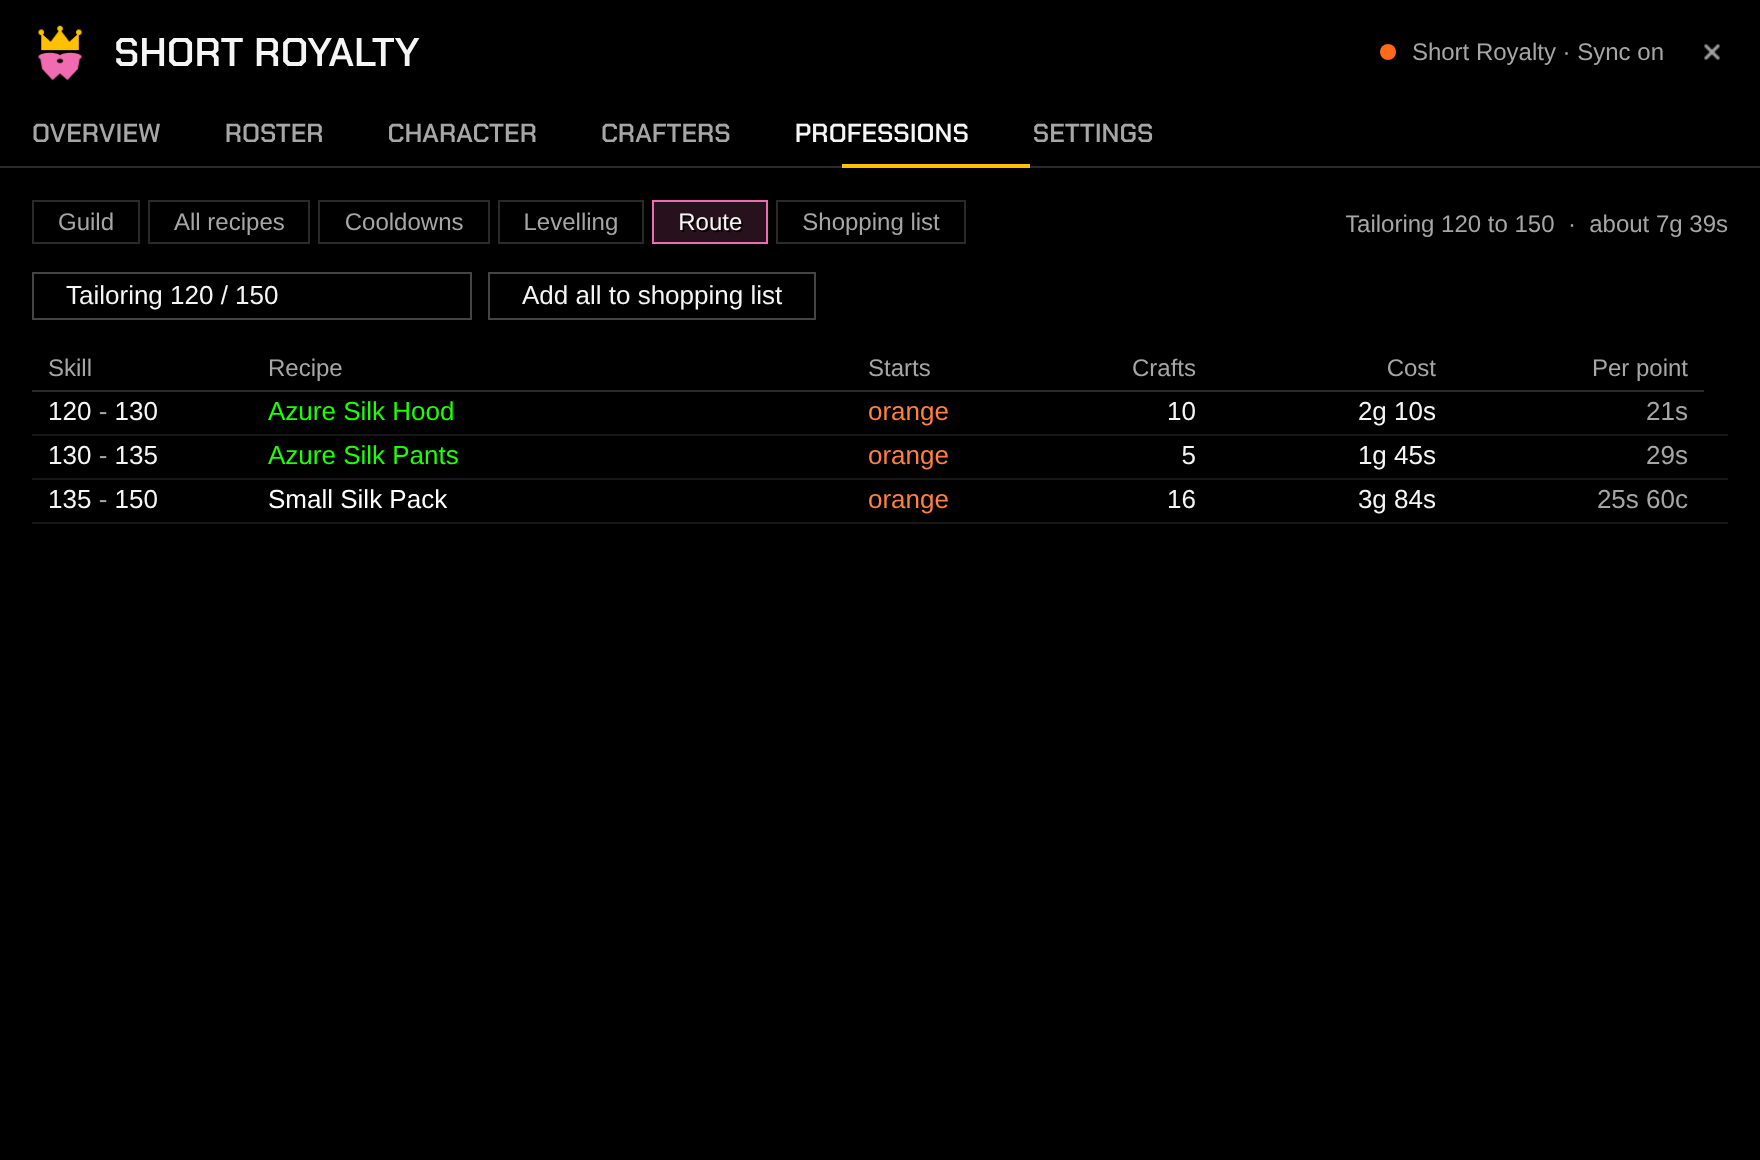
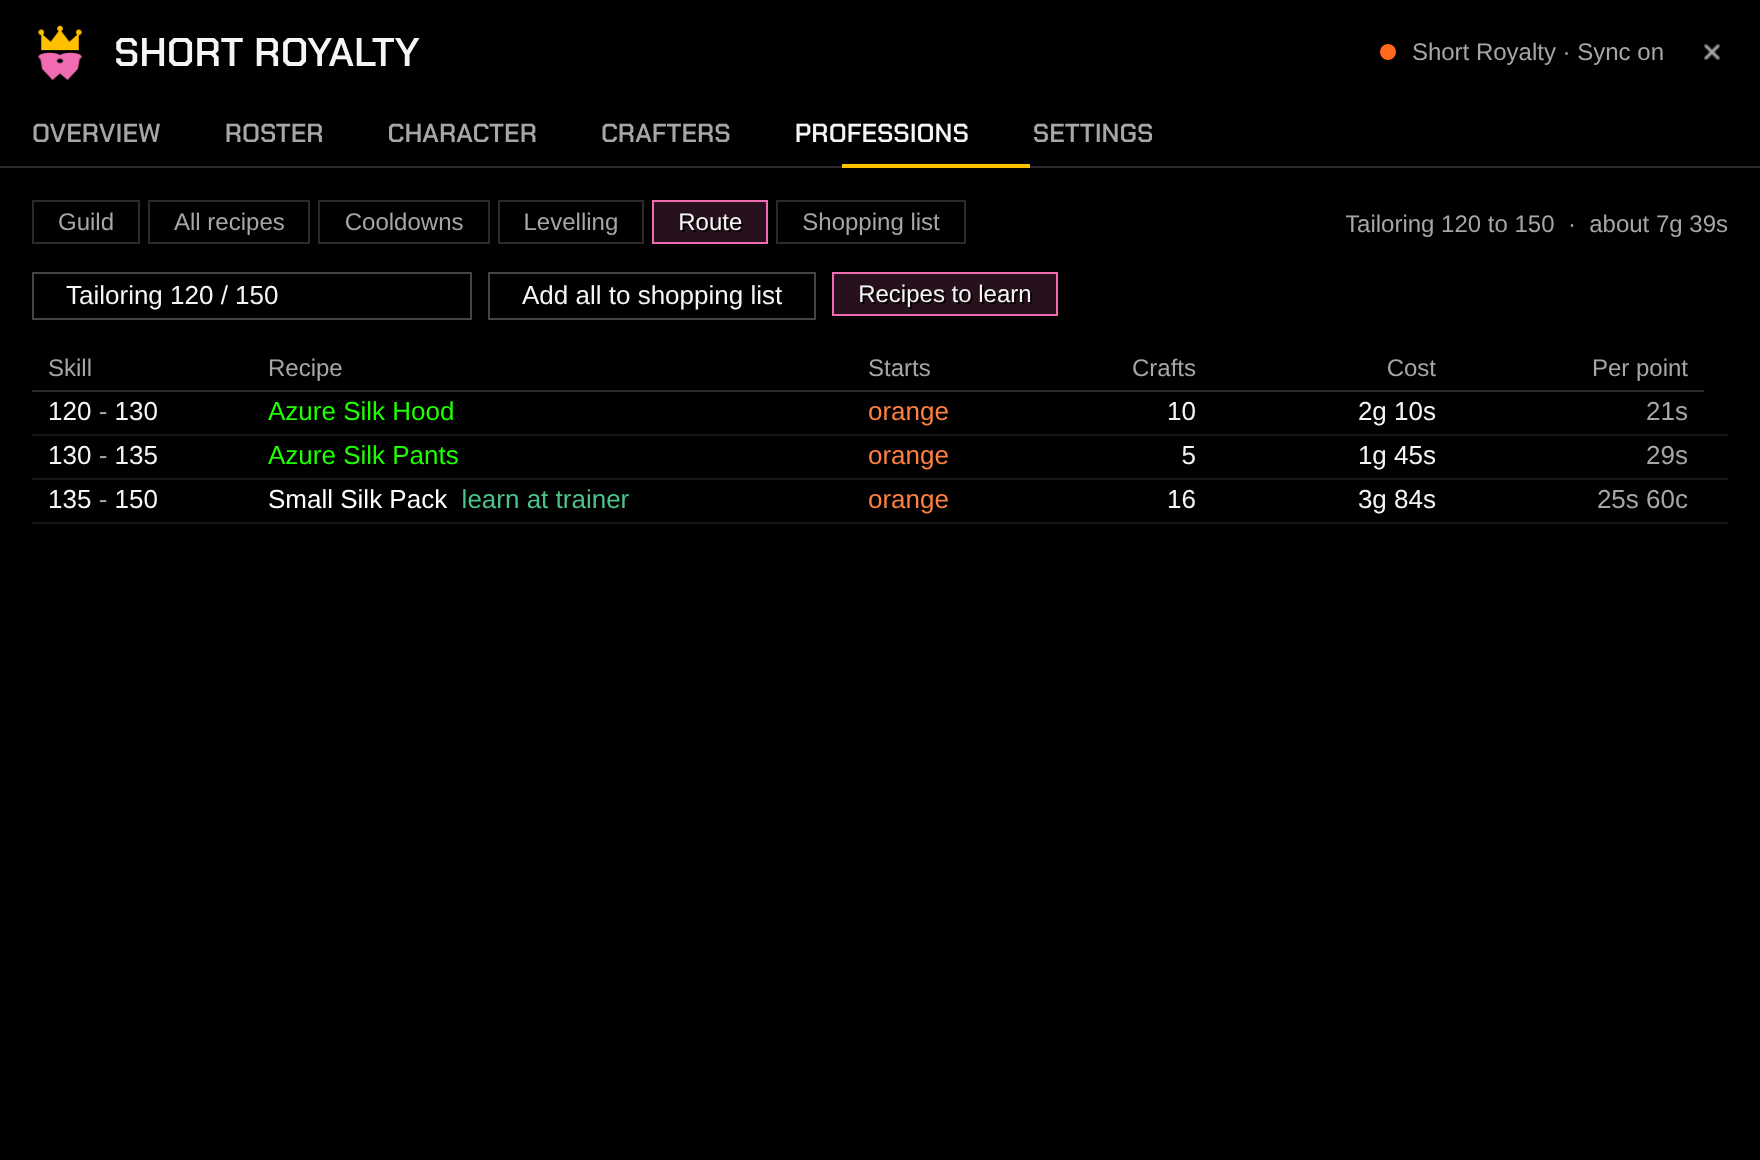
v0.5.2 (not released): route with recipes you haven't learned
Route can plan with recipe items that have a price and trainer recipes
you've seen, waiting for the skill they need, spreading their learning
cost over the points they can give, and counting it once in the total.
Prices.Batch prices each item once per refresh.

Claude-Session: https://claude.ai/code/session_01A7mubHiRvUd2jJ55Qc85DU

Changed region(s): [[0.4688, 0.2172, 0.625, 0.2793], [0.25, 0.4034, 0.3438, 0.4345]]

diff --git a/preview/index.html b/preview/index.html
@@ -600,13 +600,13 @@ function professions() {
     const SK_C = { orange: "var(--skillOrange)", yellow: "var(--skillYellow)" };
     // [from, to, recipe, quality, starts, crafts, cost, per point]
     const R = [[120, 130, "Azure Silk Hood", "#1eff00", "orange", 10, "2g 10s", "21s"], [130, 135, "Azure Silk Pants", "#1eff00", "orange", 5, "1g 45s", "29s"],
-      [135, 150, "Small Silk Pack", "#ffffff", "orange", 16, "3g 84s", "25s 60c"]];
-    const cell = (r, c) => c.key === "k" ? `${r[0]}<span class="dim"> - </span>${r[1]}` : c.key === "n" ? `<span style="color:${r[3]}">${esc(r[2])}</span>`
+      [135, 150, "Small Silk Pack", "#ffffff", "orange", 16, "3g 84s", "25s 60c", true]];
+    const cell = (r, c) => c.key === "k" ? `${r[0]}<span class="dim"> - </span>${r[1]}` : c.key === "n" ? `<span style="color:${r[3]}">${esc(r[2])}</span>${r[8] ? '<span class="good">&nbsp;&nbsp;learn at trainer</span>' : ""}`
       : c.key === "f" ? `<span style="color:${SK_C[r[4]]}">${r[4]}</span>` : c.key === "c" ? r[5] : c.key === "m" ? r[6] : `<span class="dim">${r[7]}</span>`;
     return `<div class="abs" style="left:0;top:0;display:flex;gap:4px">${chips(PROF_VIEWS, "route")}</div>
       <div class="abs dim ell" style="right:0;top:4px;font-size:12px">Tailoring 120 to 150 &nbsp;·&nbsp; about 7g 39s</div>
       ${btn("Tailoring  120 / 150", "", 'style="position:absolute;left:0;top:36px;width:220px;justify-content:space-between"')}
-      ${btn("Add all to shopping list", "", 'style="position:absolute;left:228px;top:36px"')}
+      <div class="abs" style="left:228px;top:36px;display:flex;gap:${T.space.s}px">${btn("Add all to shopping list")}${chips([["learn", "Recipes to learn"]], "learn")}</div>
       ${list([{ key: "k", t: "Skill", w: 110 }, { key: "n", t: "Recipe", w: 300 }, { key: "f", t: "Starts", w: 90 }, { key: "c", t: "Crafts", w: 90, r: 1 }, { key: "m", t: "Cost", w: 120, r: 1 }, { key: "p", t: "Per point", w: 126, r: 1 }],
         R, cell, { click: true, style: "left:0;top:72px;bottom:0;right:0" })}`;
   }

diff --git a/README.md b/README.md
@@ -143,7 +143,7 @@ Onyxia's Lair, Forever's first wave) to see who's attuned:
 
 <p align="center"><img src="docs/images/levelling.png" alt="Professions → Levelling" width="100%"></p>
 
-- **Route:** the cheapest way from your skill to your cap. Pick a profession and it lists which of your learned recipes to craft for each stretch of points, how many times, and what it costs: the recipe that costs least **per skill point** at each point, counting what you'd get for **selling what you make** (prices from TradeSkillMaster if you have it, and the vendor prices Short Royalty remembers). Orange recipes always give a point; yellow and green only sometimes, so their crafts are an average (the original game's chance; not confirmed for Forever). **Add all to shopping list** puts every craft on your shopping list. Only recipes you've learned are used: when nothing you know gives points any more, it tells you to visit your trainer.
+- **Route:** the cheapest way from your skill to your cap. Pick a profession and it lists which of your learned recipes to craft for each stretch of points, how many times, and what it costs: the recipe that costs least **per skill point** at each point, counting what you'd get for **selling what you make** (prices from TradeSkillMaster if you have it, and the vendor prices Short Royalty remembers). Orange recipes always give a point; yellow and green only sometimes, so their crafts are an average (the original game's chance; not confirmed for Forever). **Add all to shopping list** puts every craft on your shopping list. With **Recipes to learn** (on by default) it also plans with recipes you don't know yet: recipe items that have a price (TSM, or a vendor you've visited) and recipes a trainer you've opened teaches, adding what learning them costs. When nothing you know or can learn gives points any more, it tells you to visit your trainer.
 
 <p align="center"><img src="docs/images/route.png" alt="Professions → Route (example prices)" width="100%"></p>
 
@@ -377,7 +377,8 @@ The full design, data format and merge rules are in [PLAN.md](PLAN.md).
 - [x] **v0.4.8**: **cheapest levelling route** (step 4 of the levelling tools)
 - [ ] **v0.5.0** (built, not released): where to learn each recipe (recipe items, trainers, the game's own text)
 - [ ] **v0.5.1** (built, not released): shopping list upgrades (tooltips, make or buy, raw materials, Copy for TSM)
-- [ ] **v0.5.2–v0.5.5**: route with recipes you haven't learned, panel beside the profession window, filters, who has item X ([plan](PLAN.md))
+- [ ] **v0.5.2** (built, not released): Route plans with recipes you haven't learned yet
+- [ ] **v0.5.3–v0.5.5**: panel beside the profession window, filters, who has item X ([plan](PLAN.md))
 - [ ] Next levelling step: cheapest levelling route
 - [x] **v0.4.1**: Raids tab taken out again for now (it wasn't set up right yet); the focus stays on crafting and professions
 - [ ] **Raids** (later, re-planned): calendar raids, sign-ups, roles, reminders

diff --git a/CLAUDE.md b/CLAUDE.md
@@ -98,7 +98,15 @@ shared only over the guild **addon channel**: no website, no server, no uploads.
   them), `Shopping.ItemNeed` (cached, dirty on SHOPPING_CHANGED/BAG/BANK) →
   `Tooltip.ShoppingText` on item tooltips (shown even with crafter lines
   off), `Shopping.TSMList` ("i:1,i:2"; **TSM accepting it is unverified**,
-  TESTING 174). Tests: `tests/shopping2_spec.lua`. Next: v0.5.2.
+  TESTING 174). Tests: `tests/shopping2_spec.lua`.
+- **Built, not released: v0.5.2 route with recipes to learn.**
+  `Route.HowToLearn` (recipe item with a price via `Prices.Buy`, or a
+  remembered trainer; cheaper wins), `Route.Recipes(skillLine, known,
+  toLearn)`, `Route.Plan` honours `learnAt`, adds `learnCost /
+  (min(grey, to) - skill)` per point until paid, puts `learn` on the first
+  step and the cost once in the total. `settings.routeLearn` (default on),
+  chip "Recipes to learn". `Prices.Batch(fn, ...)` caches `Buy` per item
+  during a refresh (Route, Profit). TESTING 175–177. Next: v0.5.3.
 - **Earlier:** the levelling tools (PLAN.md section 13) are all
   built. **FojjiCore review (11 Nov): `docs/FOJJICORE-REVIEW.md`** (All
   Rights Reserved: features only, never code). Top pick: recipe sources from

diff --git a/CHANGELOG.md b/CHANGELOG.md
@@ -1,5 +1,18 @@
 # Changelog
 
+## v0.5.2 (not released yet): Route with recipes you haven't learned
+
+- **Route** can now plan with recipes you don't know yet (on by default;
+  the **Recipes to learn** button turns it off):
+  - recipe items (patterns, plans…) that have a price, from TSM or a vendor
+    you've visited, from the skill they need;
+  - recipes a trainer you've opened teaches, from the skill and cost it
+    showed.
+- A step says "learn at trainer" or "learn from recipe", and its tooltip
+  what it costs. Learning costs are in the total, counted once.
+- A recipe worth learning is judged on all the points it can give you on
+  the way to your target, not only the first one.
+
 ## v0.5.1 (not released yet): Shopping list upgrades
 
 - **Item tooltips** show "Shopping list: need 7, have 3" for anything on

diff --git a/TESTING.md b/TESTING.md
@@ -526,6 +526,15 @@ in game if anything looks different and send it.
 174. [ ] **Copy for TSM**, paste the text into a TSM group's "Import items":
         **tell me if TSM takes it** (format `i:2589,i:2592`).
 
+## v0.5.2 Route with recipes to learn
+
+175. [ ] After opening your trainer once: Route shows "learn at trainer" on
+        a step when one of its recipes is the cheapest way; its tooltip says
+        the cost. Does that match the trainer?
+176. [ ] A pattern on the auction house (TSM has a price): Route may say
+        "learn from recipe" with its price. Sensible?
+177. [ ] **Recipes to learn** off: only recipes you know (as before).
+
 ## Known gaps in v0.1
 
 - No Raids tab yet (v0.4).

diff --git a/PLAN.md b/PLAN.md
@@ -605,7 +605,7 @@ small enough to test in game before the next one builds on it.
   shopping search. Check the format in TSM's docs (their API site was down
   on 11 Nov) or test it in game before release.
 
-### v0.5.2 Route with recipes you haven't learned yet
+### v0.5.2 Route with recipes you haven't learned yet (✅ built 11 Nov)
 - The planner may also use recipes you can learn: recipe items (learn skill
   from the data; price from TSM, else the vendor price) and trainer recipes
   you've seen (skill and cost from your visit). Steps can then say "at 135,
